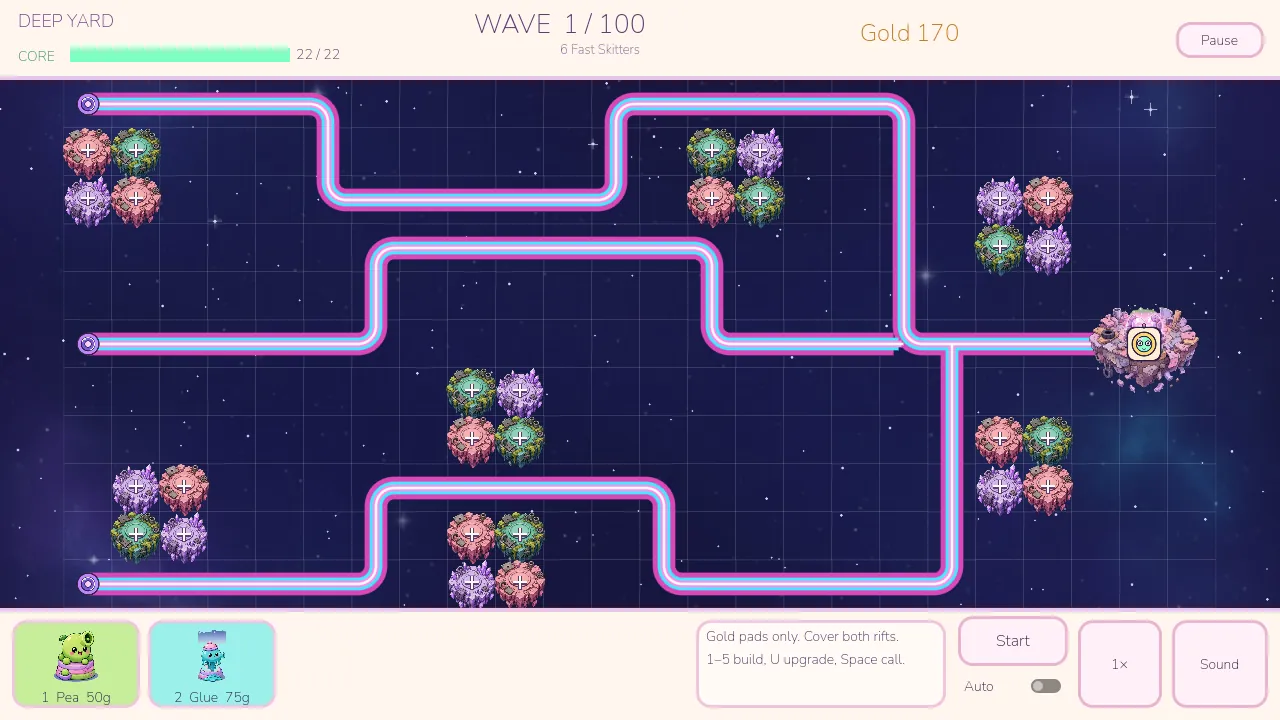
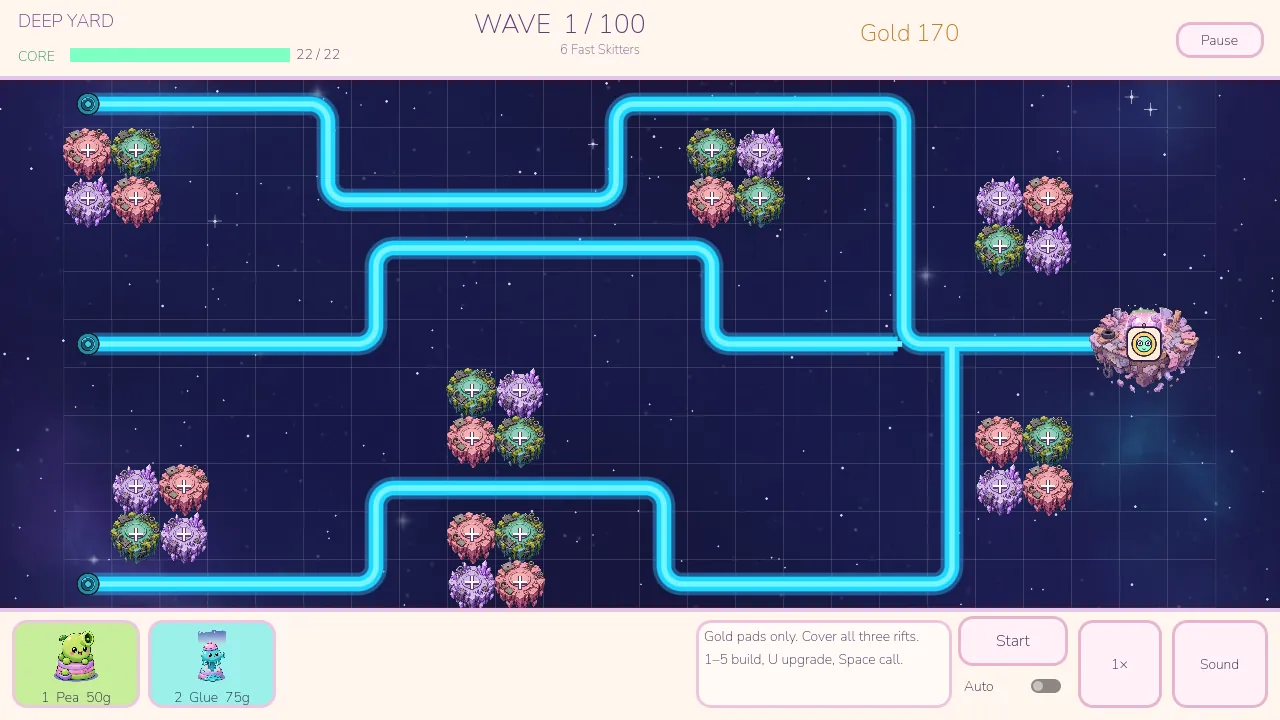
Paint the road solid cyan and name every rift.
The lane is one glowing cyan stroke, in battle and in the editor. The hint says both rifts, all three, or the single rift.

Changed region(s): [[0.0625, 0.1222, 0.9062, 0.8556], [0.5625, 0.8556, 0.75, 0.9778], [0.0625, 0.0611, 0.2188, 0.0917]]

diff --git a/README.md b/README.md
@@ -8,14 +8,14 @@ Desktop only, true top-down. **Battle** is the mode you can play. **Adventure** 
 
 ## Download
 
-**[v0.4.5](https://github.com/thegliffy/scrapyard-td/releases/tag/v0.4.5)** is the current build. You do not need Godot.
+**[v0.4.6](https://github.com/thegliffy/scrapyard-td/releases/tag/v0.4.6)** is the current build. You do not need Godot.
 
-- Windows: [ScrapyardTD-v0.4.5-windows-x86_64.zip](https://github.com/thegliffy/scrapyard-td/releases/download/v0.4.5/ScrapyardTD-v0.4.5-windows-x86_64.zip). Unzip it and double-click `ScrapyardTD.exe`.
-- Linux x86_64: [ScrapyardTD-v0.4.5-linux-x86_64.zip](https://github.com/thegliffy/scrapyard-td/releases/download/v0.4.5/ScrapyardTD-v0.4.5-linux-x86_64.zip). Unzip, then `chmod +x ScrapyardTD.x86_64` and `./ScrapyardTD.x86_64`.
+- Windows: [ScrapyardTD-v0.4.6-windows-x86_64.zip](https://github.com/thegliffy/scrapyard-td/releases/download/v0.4.6/ScrapyardTD-v0.4.6-windows-x86_64.zip). Unzip it and double-click `ScrapyardTD.exe`.
+- Linux x86_64: [ScrapyardTD-v0.4.6-linux-x86_64.zip](https://github.com/thegliffy/scrapyard-td/releases/download/v0.4.6/ScrapyardTD-v0.4.6-linux-x86_64.zip). Unzip, then `chmod +x ScrapyardTD.x86_64` and `./ScrapyardTD.x86_64`.
 
-**v0.4.5** — Side Dock and Deep Yard have their own lanes and islands.
+**v0.4.6** — The road is solid glowing cyan.
 
-Older builds stay up: [v0.4.4](https://github.com/thegliffy/scrapyard-td/releases/tag/v0.4.4), [v0.4.3](https://github.com/thegliffy/scrapyard-td/releases/tag/v0.4.3), [v0.4.2](https://github.com/thegliffy/scrapyard-td/releases/tag/v0.4.2), [v0.4.1](https://github.com/thegliffy/scrapyard-td/releases/tag/v0.4.1), [v0.4.0](https://github.com/thegliffy/scrapyard-td/releases/tag/v0.4.0).
+Older builds stay up: [v0.4.5](https://github.com/thegliffy/scrapyard-td/releases/tag/v0.4.5), [v0.4.4](https://github.com/thegliffy/scrapyard-td/releases/tag/v0.4.4), [v0.4.3](https://github.com/thegliffy/scrapyard-td/releases/tag/v0.4.3), [v0.4.2](https://github.com/thegliffy/scrapyard-td/releases/tag/v0.4.2), [v0.4.1](https://github.com/thegliffy/scrapyard-td/releases/tag/v0.4.1), [v0.4.0](https://github.com/thegliffy/scrapyard-td/releases/tag/v0.4.0).
 
 ## How to play
 

diff --git a/docs/MAP_FORMAT.md b/docs/MAP_FORMAT.md
@@ -83,7 +83,7 @@ Waves still name lanes `a`, `b`, or `alt`. `a` is always the first lane in the f
 
 On Yard Approach, `alt` flips North and South. On Side Dock it flips Pier and Slip. On Deep Yard it rotates High, Low, then Cut, so Cut is every third alternating spawn. Bosses marked `a` still walk the first lane (High, in Deep Yard). Escorts marked `b` walk the second (Low). Cut has no dedicated boss entry.
 
-`MapView` draws the backdrop, one continuous neon line per lane (rounded corners, pink and cyan), islands, the core island, and rifts. Battle's `scripts/map.gd` is that view plus in-run stains. A segment a later lane shares with an earlier one is drawn once, so a merge is not a double-bright overlap.
+`MapView` draws the backdrop, one continuous cyan line per lane (rounded corners, a soft cyan glow, and a brighter cyan core), islands, the core island, and rifts. Battle's `scripts/map.gd` is that view plus in-run stains. A segment a later lane shares with an earlier one is drawn once, so a merge is not a double-bright overlap.
 
 ## Scrap
 
